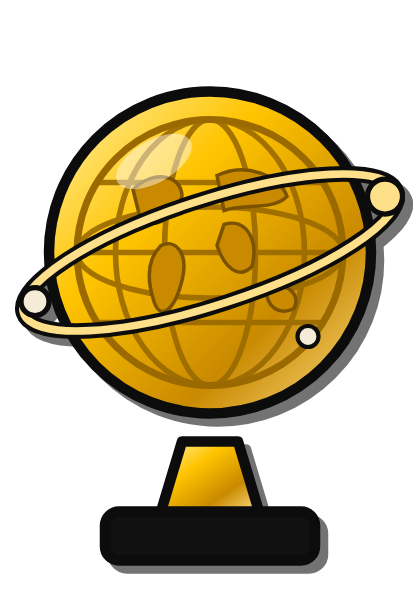
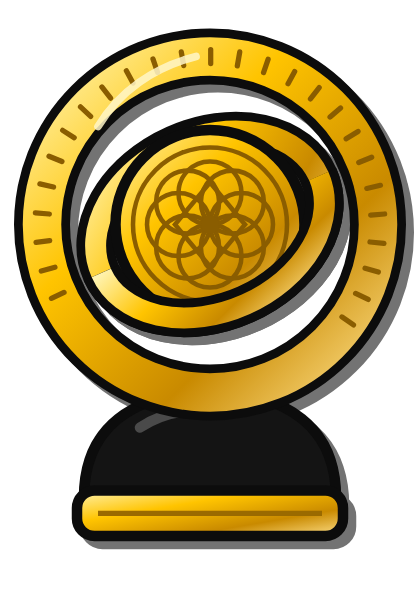
Super Mundial: troféu no formato real (aro largo, disco gravado, anel inclinado, cúpula preta) no jogo, perfil, story e vídeo
Claude-Session: https://claude.ai/code/session_012GPrTDbpvrApA6DArkzCpE

diff --git a/src/escalacao/competicoes-visual.tsx b/src/escalacao/competicoes-visual.tsx
@@ -85,9 +85,9 @@ export function Trofeu({ comp, size = 120, sombra = 4 }: { comp: CompId; size?: 
     america: <><path d="M28 146 H92 L88 162 H32 Z" fill={`url(#${id}m)`} {...S} /><path d="M36 132 H84 L80 146 H40 Z" fill={`url(#${id}m)`} {...S} /><rect x="44" y="137" width="32" height="5" fill="#FFE14D" stroke={INK} strokeWidth={1.5} /><path d="M52 132 L55 112 H65 L68 132 Z" fill={pr} {...S} /><path d="M38 38 H82 C82 82,74 104,60 112 C46 104,38 82,38 38 Z" fill={pr} {...S} /><path d="M40 48 C22 46,20 84,44 90 M80 48 C98 46,100 84,76 90" fill="none" {...S} /><ellipse cx="60" cy="38" rx="22" ry="6" fill="#c9d1da" {...S} /><path d="M50 56 C52 80,55 96,58 106" stroke="#fff" strokeWidth={4} strokeLinecap="round" opacity={.7} /></>,
     liberta: <><path d="M30 140 H90 L84 162 H36 Z" fill={`url(#${id}m)`} {...S} /><rect x="40" y="146" width="40" height="8" fill="#C9A227" stroke={INK} strokeWidth={1.5} /><path d="M52 140 L55 118 H65 L68 140 Z" fill={pr} {...S} /><path d="M36 58 H84 C84 92,74 112,60 118 C46 112,36 92,36 58 Z" fill={pr} {...S} /><path d="M38 64 C24 62,24 88,42 92 M82 64 C96 62,96 88,78 92" fill="none" {...S} /><circle cx="60" cy="24" r="7" fill={pr} {...S} /><path d="M60 31 L60 46 M60 36 L50 44 M60 36 L70 30 M60 46 L52 56 M60 46 L70 56" stroke={INK} strokeWidth={4} strokeLinecap="round" /><circle cx="72" cy="56" r="4" fill="#fff" stroke={INK} strokeWidth={2} /></>,
     mundial: <><rect x="36" y="142" width="48" height="18" rx="4" fill="#111" {...S} /><path d="M48 142 C40 112,46 92,60 84 C74 92,80 112,72 142 Z" fill={o} {...S} /><circle cx="60" cy="56" r="30" fill="none" stroke={o} strokeWidth={10} /><circle cx="60" cy="56" r="30" fill="none" stroke={INK} strokeWidth={2} /><circle cx="60" cy="56" r="17" fill={o} {...S} /></>,
-    // 🌍 Super Mundial: o DISCO de ouro do troféu de 2025 — mapa-múndi gravado (paralelos, meridianos e continentes), a órbita
-    // com os planetas e o pé baixo onde ele fica de pé. Sem logo e sem letra.
-    supermundial: <><rect x="30" y="146" width="60" height="14" rx="4" fill="#111" {...S} /><path d="M46 146 L52 126 H68 L74 146 Z" fill={o} {...S} /><circle cx="60" cy="72" r="46" fill={o} {...S} /><circle cx="60" cy="72" r="38" fill="none" stroke="#9a6a00" strokeWidth={2} /><g fill="none" stroke="#9a6a00" strokeWidth={1.6} opacity={0.9}><ellipse cx="60" cy="72" rx="38" ry="13" /><ellipse cx="60" cy="72" rx="13" ry="38" /><ellipse cx="60" cy="72" rx="27" ry="38" /><path d="M22 72 H98 M28 52 H92 M28 92 H92" /></g><g fill="#C98A00" stroke="#7a5200" strokeWidth={1}><path d="M38 54 C44 48,52 50,52 56 C50 62,44 66,40 62 Z" /><path d="M46 70 C50 68,54 72,52 80 C50 88,46 92,44 86 C42 80,42 74,46 70 Z" /><path d="M62 50 C70 46,80 50,82 56 C78 60,70 58,64 60 Z" /><path d="M64 64 C70 62,74 68,72 76 C68 80,64 76,62 70 Z" /><path d="M76 82 C82 80,86 84,84 88 C80 90,76 88,76 82 Z" /></g><ellipse cx="60" cy="72" rx="56" ry="15" fill="none" stroke={INK} strokeWidth={4.5} transform="rotate(-18 60 72)" /><ellipse cx="60" cy="72" rx="56" ry="15" fill="none" stroke="#FFE08A" strokeWidth={2.2} transform="rotate(-18 60 72)" /><circle cx="10" cy="86" r="4" fill="#F4ECD6" stroke={INK} strokeWidth={1.5} /><circle cx="110" cy="56" r="5" fill="#FFE08A" stroke={INK} strokeWidth={1.5} /><circle cx="88" cy="96" r="3" fill="#F4ECD6" stroke={INK} strokeWidth={1.2} /><ellipse cx="44" cy="46" rx="12" ry="6" fill="#fff" opacity={0.45} transform="rotate(-30 44 46)" /></>,
+    // 🌍 Super Mundial (28/11, pelas fotos do troféu real que o Diego mandou): aro LARGO de fora, disco gravado com rosácea no meio,
+    // um anel inclinado passando na frente e atrás do disco, e o pé em cúpula preta com aro dourado. Sem logo e sem letra.
+    supermundial: <><path d="M24 142 C24 122,38 112,60 112 C82 112,96 122,96 142 Z" fill="#141414" {...S} /><path d="M40 122 C46 118,52 117,58 117" stroke="#4a4a4a" strokeWidth={3} strokeLinecap="round" fill="none" /><rect x="22" y="140" width="76" height="13" rx="5" fill={o} {...S} /><path d="M28 146.5 H92" stroke="#9a6a00" strokeWidth={1.5} /><ellipse cx="60" cy="64" rx="34" ry="25" transform="rotate(-24 60 64)" fill="none" stroke={INK} strokeWidth={11} /><ellipse cx="60" cy="64" rx="34" ry="25" transform="rotate(-24 60 64)" fill="none" stroke={o} strokeWidth={6} /><circle cx="60" cy="64" r="27" fill={o} {...S} /><g fill="none" stroke="#8a5d00" strokeWidth={1.3}><circle cx="69.0" cy="64.0" r="9" /><circle cx="66.4" cy="70.4" r="9" /><circle cx="60.0" cy="73.0" r="9" /><circle cx="53.6" cy="70.4" r="9" /><circle cx="51.0" cy="64.0" r="9" /><circle cx="53.6" cy="57.6" r="9" /><circle cx="60.0" cy="55.0" r="9" /><circle cx="66.4" cy="57.6" r="9" /><path d="M60 52 L70 64 L60 76 L50 64 Z" /><circle cx="60" cy="64" r="22" /></g><circle cx="60" cy="64" r="2.6" fill="#8a5d00" /><path d="M60 64 m-34 0 a34 25 0 0 0 68 0" transform="rotate(-24 60 64)" fill="none" stroke={INK} strokeWidth={11} /><path d="M60 64 m-34 0 a34 25 0 0 0 68 0" transform="rotate(-24 60 64)" fill="none" stroke={o} strokeWidth={6} /><circle cx="60" cy="64" r="48" fill="none" stroke={INK} strokeWidth={16} /><circle cx="60" cy="64" r="48" fill="none" stroke={o} strokeWidth={11} /><path d="M18.3 83.4 L14.7 85.1 M15.7 76.2 L11.8 77.3 M14.2 68.6 L10.3 69.1 M14.1 61.0 L10.1 60.7 M15.3 53.3 L11.4 52.4 M17.7 46.0 L14.0 44.5 M21.2 39.2 L17.9 37.1 M25.9 33.1 L23.0 30.4 M31.6 27.9 L29.1 24.7 M38.0 23.6 L36.1 20.1 M45.0 20.5 L43.7 16.7 M52.5 18.6 L51.8 14.7 M60.2 18.0 L60.2 14.0 M67.8 18.7 L68.5 14.7 M75.3 20.6 L76.6 16.8 M82.3 23.8 L84.2 20.3 M88.7 28.1 L91.2 24.9 M94.3 33.3 L97.3 30.7 M98.9 39.5 L102.3 37.4 M102.5 46.3 L106.2 44.8 M104.8 53.7 L108.7 52.8 M105.9 61.3 L109.9 61.0 M105.7 69.0 L109.7 69.4 M104.3 76.5 L108.1 77.6 M101.6 83.7 L105.2 85.4 M97.7 90.4 L101.0 92.7" stroke="#8a5d00" strokeWidth={1.5} strokeLinecap="round" fill="none" /><path d="M28 36 C34 26,44 19,56 16" fill="none" stroke="#FFF6C8" strokeWidth={2.2} strokeLinecap="round" opacity={0.85} /></>,
     liga: <><rect x="34" y="140" width="52" height="20" rx="4" fill={INK} {...S} /><path d="M50 140 L54 112 H66 L70 140 Z" fill={o} {...S} /><path d="M30 40 H90 C90 82,78 106,60 112 C42 106,30 82,30 40 Z" fill={o} {...S} /><path d="M32 48 C14 46,14 80,36 84 M88 48 C106 46,106 80,84 84" fill="none" {...S} /><path d="M60 58 l6 12 13 2-9 9 2 13-12-6-12 6 2-13-9-9 13-2z" fill="#fff" stroke={INK} strokeWidth={2} /></>,
     copa8: <><rect x="34" y="140" width="52" height="20" rx="4" fill="#C2452F" {...S} /><path d="M50 140 L54 114 H66 L70 140 Z" fill={o} {...S} /><path d="M28 36 H92 L80 104 C74 112,46 112,40 104 Z" fill={o} {...S} /><text x="60" y="88" textAnchor="middle" fontFamily="Oswald" fontWeight={700} fontSize={46} fill={INK}>8</text></>,
     riosp: <><rect x="36" y="142" width="48" height="18" rx="4" fill="#1a1a1a" {...S} /><path d="M50 142 L54 120 H66 L70 142 Z" fill={pr} {...S} /><path d="M42 44 C34 70,36 104,60 120 C84 104,86 70,78 44 Z" fill={pr} {...S} /><path d="M44 52 C22 40,18 82,46 90 M76 52 C98 40,102 82,74 90" fill="none" {...S} /><path d="M40 40 H80 L76 30 H44 Z" fill={pr} {...S} /></>,

diff --git a/src/escalacao/trofeus-perfil.tsx b/src/escalacao/trofeus-perfil.tsx
@@ -65,18 +65,8 @@ const illustrations: Partial<Record<CompId, ReactNode>> = {
     <path d="m50 34 10 8-4 12H44l-4-12Z" fill="#F4E6B9" />
     <path d="m41 77-3 26h24l-3-26" fill={GOLD_DARK} />
   </>,
-  // 🌍 Super Mundial (26/11): the real 2025 trophy shape — a standing gold DISC with an engraved world map and an orbit of planets.
-  supermundial: <>
-    <circle cx="50" cy="48" r="38" fill={GOLD} />
-    <path d="M14 48h72M18 32h64M18 64h64" fill="none" stroke={GOLD_DARK} strokeWidth="1.6" />
-    <ellipse cx="50" cy="48" rx="12" ry="37" fill="none" stroke={GOLD_DARK} strokeWidth="1.6" />
-    <ellipse cx="50" cy="48" rx="25" ry="37" fill="none" stroke={GOLD_DARK} strokeWidth="1.6" />
-    <path d="M32 34c6-5 13-3 12 3-2 6-8 8-11 5Zm8 14c4-2 7 2 6 9-2 7-6 9-7 4-1-5-1-10 1-13Zm14-16c7-3 15 0 16 5-4 3-11 2-15 3Z" fill="#F0D88C" strokeWidth="1.5" />
-    <ellipse cx="50" cy="48" rx="47" ry="12" fill="none" strokeWidth="4" transform="rotate(-18 50 48)" />
-    <ellipse cx="50" cy="48" rx="47" ry="12" fill="none" stroke="#F4E6B9" strokeWidth="1.8" transform="rotate(-18 50 48)" />
-    <circle cx="8" cy="60" r="3.5" fill="#F4ECD6" strokeWidth="1.5" /><circle cx="92" cy="34" r="4" fill={GOLD} strokeWidth="1.5" />
-    <path d="m42 86-3 17h22l-3-17" fill={GOLD_DARK} />
-  </>,
+  // 🌍 Super Mundial (28/11): o formato REAL do troféu — aro largo, disco com rosácea, anel inclinado e cúpula preta (fotos do Diego).
+  supermundial: <g transform="translate(6.8 -2) scale(0.72)"><path d="M24 142 C24 122,38 112,60 112 C82 112,96 122,96 142 Z" fill="#141414" /><ellipse cx="60" cy="64" rx="34" ry="25" transform="rotate(-24 60 64)" fill="none" strokeWidth="11" /><ellipse cx="60" cy="64" rx="34" ry="25" transform="rotate(-24 60 64)" fill="none" stroke={GOLD} strokeWidth="6" /><circle cx="60" cy="64" r="27" fill={GOLD} /><g fill="none" stroke={GOLD_DARK} strokeWidth="1.6"><circle cx="69.0" cy="64.0" r="9" /><circle cx="66.4" cy="70.4" r="9" /><circle cx="60.0" cy="73.0" r="9" /><circle cx="53.6" cy="70.4" r="9" /><circle cx="51.0" cy="64.0" r="9" /><circle cx="53.6" cy="57.6" r="9" /><circle cx="60.0" cy="55.0" r="9" /><circle cx="66.4" cy="57.6" r="9" /></g><path d="M60 64 m-34 0 a34 25 0 0 0 68 0" transform="rotate(-24 60 64)" fill="none" strokeWidth="11" /><path d="M60 64 m-34 0 a34 25 0 0 0 68 0" transform="rotate(-24 60 64)" fill="none" stroke={GOLD} strokeWidth="6" /><circle cx="60" cy="64" r="48" fill="none" strokeWidth="16" /><circle cx="60" cy="64" r="48" fill="none" stroke={GOLD} strokeWidth="11" /><path d="M18.3 83.4 L14.7 85.1 M15.7 76.2 L11.8 77.3 M14.2 68.6 L10.3 69.1 M14.1 61.0 L10.1 60.7 M15.3 53.3 L11.4 52.4 M17.7 46.0 L14.0 44.5 M21.2 39.2 L17.9 37.1 M25.9 33.1 L23.0 30.4 M31.6 27.9 L29.1 24.7 M38.0 23.6 L36.1 20.1 M45.0 20.5 L43.7 16.7 M52.5 18.6 L51.8 14.7 M60.2 18.0 L60.2 14.0 M67.8 18.7 L68.5 14.7 M75.3 20.6 L76.6 16.8 M82.3 23.8 L84.2 20.3 M88.7 28.1 L91.2 24.9 M94.3 33.3 L97.3 30.7 M98.9 39.5 L102.3 37.4 M102.5 46.3 L106.2 44.8 M104.8 53.7 L108.7 52.8 M105.9 61.3 L109.9 61.0 M105.7 69.0 L109.7 69.4 M104.3 76.5 L108.1 77.6 M101.6 83.7 L105.2 85.4 M97.7 90.4 L101.0 92.7" stroke={GOLD_DARK} strokeWidth="1.6" fill="none" /></g>,
   // Fictional competitions: original cups in the same visual family.
   liga: <>
     <path d="M29 31C10 23 14 63 36 64m35-33C90 23 86 63 64 64" fill="none" strokeWidth="5" />

diff --git a/docs/pendencias.md b/docs/pendencias.md
@@ -15870,3 +15870,8 @@ esconde, o banco recusa com 'antigo', e a virada não usa esse time nem como res
 - Diego: *"deixar isso só pro streamer q criou"*. Antes o cadeado 🔒 nos valores valia pra todo mundo da sala Stream; agora só no
   aparelho de quem criou (`streamEsconde = streamMode && isHost`, Envelope e EnvelopeUnico em screens.tsx). Os outros veem os próprios
   lances normal. Pacing/abertura do stream (dono dá o start) não mudou. Reverter = trocar `streamEsconde` de volta por `state.streamMode`.
+
+## 🌍 28/11 — Troféu do Super Mundial no formato REAL (aprovado: *"Ficou sim tá ótimo"*)
+- Pelas 2 fotos do Diego: aro largo, disco com rosácea, anel inclinado (passa atrás e na frente) e cúpula preta com aro dourado. Sem logo/letra.
+- Trocado em `competicoes-visual.tsx` (abertura/festa/túnel) e `trofeus-perfil.tsx` (taça do perfil); `trofeu-grande.png`, story e reels
+  regerados. Mockup `scripts/mockups/super-mundial/trofeu-novo-mockup.png`. ⏳ Falta o "publica" do Diego.
